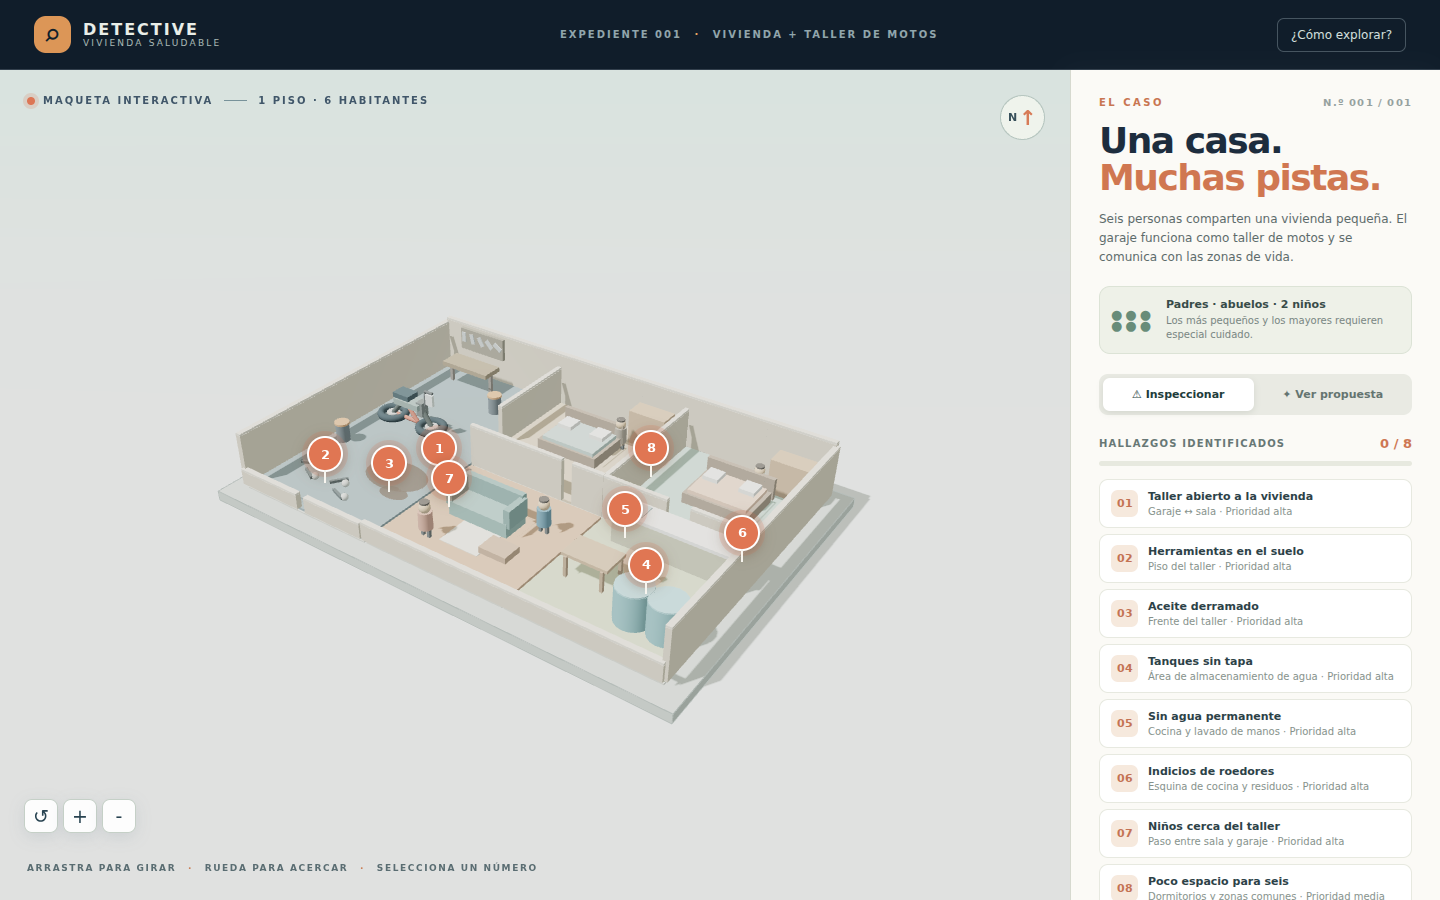
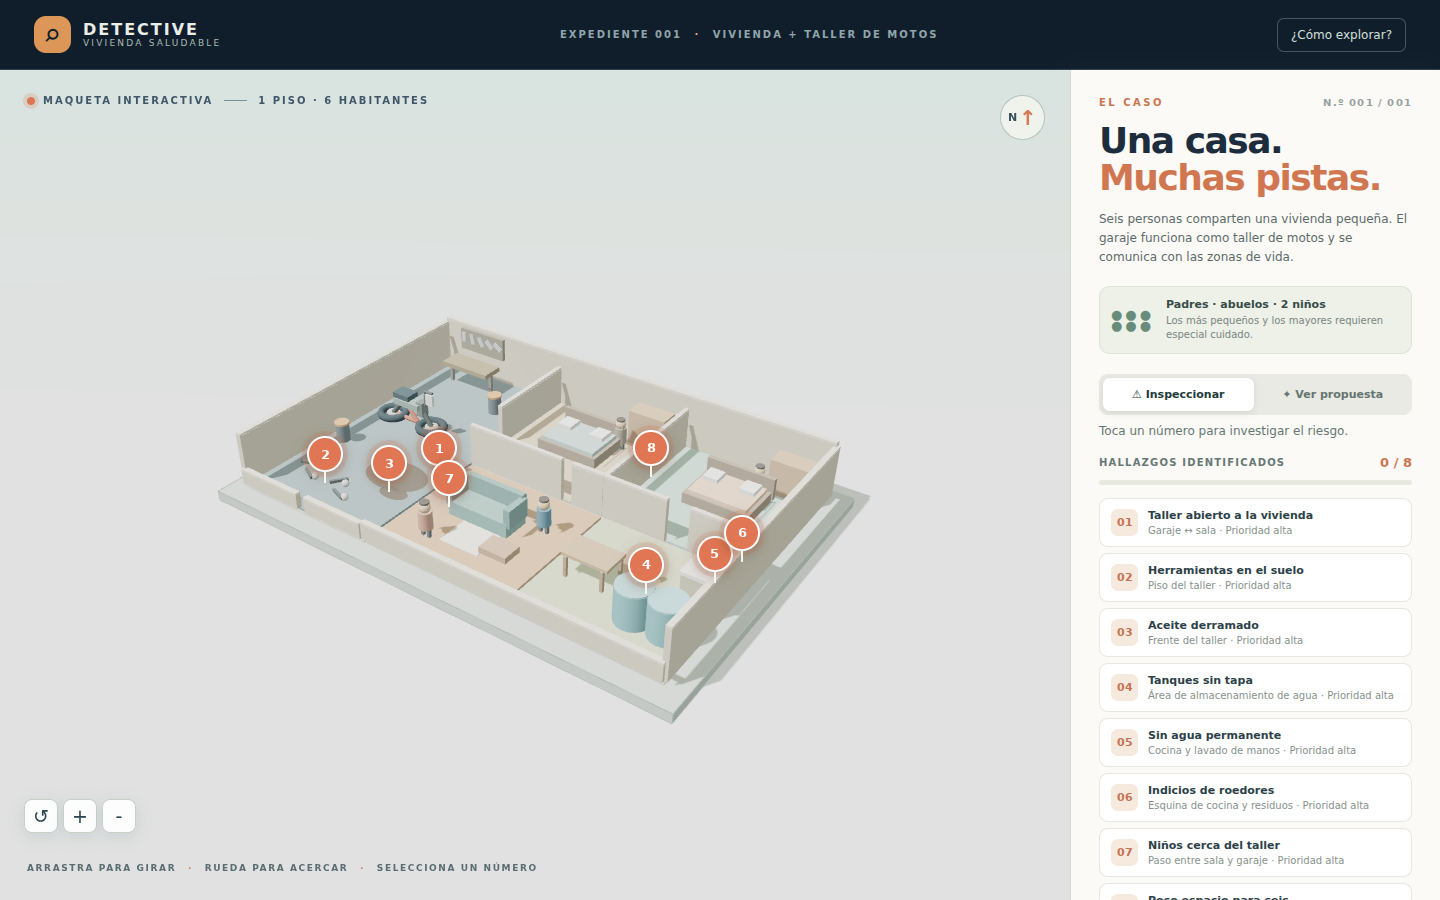
Add files via upload
Ajustes

Changed region(s): [[0.75, 0.4667, 0.9688, 1.0], [0.4062, 0.5289, 0.5312, 0.6844]]

diff --git a/app.js b/app.js
@@ -6,10 +6,20 @@ const R = [
  {n:'Herramientas en el suelo',zone:'Piso del taller',level:'ALTA',pos:[-4.55,.75,2.6],view:[-10,10,13],risk:'Llaves, piezas y herramientas ocupan la circulación. Pueden causar tropiezos, cortes y acceso accidental de los niños a objetos peligrosos.',fix:'Despejar el piso al terminar cada tarea; asignar un panel y un armario con cierre para herramientas y piezas. Delimitar un paso libre y mantener a los niños fuera del taller.',src:'https://www.who.int/publications/i/item/9789241550376'},
  {n:'Aceite derramado',zone:'Frente del taller',level:'ALTA',pos:[-3.20,.55,1.75],view:[-9,10,13],risk:'Hay manchas de aceite bajo la zona de trabajo. El piso resbaladizo facilita caídas y el aceite usado puede contaminar superficies que tocan los habitantes.',fix:'Contener el derrame, absorberlo con material adecuado, limpiar el piso y guardar aceite nuevo y usado en recipientes cerrados y rotulados. Entregar el aceite usado a un gestor autorizado; no verterlo al suelo o al desagüe.',src:'https://www.epa.gov/recycle/managing-reusing-and-recycling-used-oil'},
  {n:'Tanques sin tapa',zone:'Área de almacenamiento de agua',level:'ALTA',pos:[4.55,1.30,2.4],view:[12,11,11],risk:'El agua expuesta puede contaminarse y favorecer criaderos de mosquitos. Para un niño pequeño, un tanque abierto también es un riesgo de ahogamiento.',fix:'Colocar tapas firmes que impidan el acceso infantil; usar malla fina si hay aberturas de ventilación. Lavar los recipientes y proteger por separado el agua destinada a beber en envases limpios y cerrados.',src:'https://www.cdc.gov/mosquitoes/es/mosquito-control/el-control-de-mosquitos-en-la-casa.html'},
- {n:'Sin agua permanente',zone:'Cocina y lavado de manos',level:'ALTA',pos:[3.00,1.10,.7],view:[11,10,7],risk:'La vivienda no está conectada al acueducto. La disponibilidad irregular de agua dificulta el lavado de manos, la limpieza y la preparación segura de alimentos.',fix:'Gestionar una conexión segura al servicio de agua con la entidad competente. Mientras se resuelve, planificar abastecimiento suficiente y usar agua segura para beber y cocinar, almacenada en recipientes limpios y cubiertos.',src:'https://www.who.int/publications/i/item/9789240015241'},
+ {n:'Sin agua permanente',zone:'Cocina y lavado de manos',level:'ALTA',pos:[5.45,1.16,1.07],view:[11,10,7],risk:'La vivienda no está conectada al acueducto. La disponibilidad irregular de agua dificulta el lavado de manos, la limpieza y la preparación segura de alimentos.',fix:'Gestionar una conexión segura al servicio de agua con la entidad competente. Mientras se resuelve, planificar abastecimiento suficiente y usar agua segura para beber y cocinar, almacenada en recipientes limpios y cubiertos.',src:'https://www.who.int/publications/i/item/9789240015241'},
  {n:'Indicios de roedores',zone:'Esquina de cocina y residuos',level:'ALTA',pos:[5.3,.65,-.6],view:[12,10,-5],risk:'Se observan roedores junto al área doméstica. Pueden contaminar comida y superficies con orina o excrementos; los residuos accesibles favorecen su presencia.',fix:'Cerrar alimentos y residuos en recipientes resistentes con tapa, retirar restos a diario, localizar y sellar entradas y solicitar control de plagas seguro para un hogar con niños. Evitar barrer en seco excrementos de roedor.',src:'https://www.cdc.gov/healthy-pets/rodent-control/index.html'},
  {n:'Niños cerca del taller',zone:'Paso entre sala y garaje',level:'ALTA',pos:[-.95,1.15,2.1],view:[7,10,14],risk:'Los niños de primera infancia pueden llegar al área con motos, aceites, piezas y herramientas a través del paso abierto.',fix:'Crear una barrera física con puerta que se mantenga cerrada, guardar sustancias y herramientas bajo llave y definir una zona de juego lejos de la actividad del taller.',src:'https://www.cdc.gov/act-early/milestones/15-months.html'},
  {n:'Poco espacio para seis',zone:'Dormitorios y zonas comunes',level:'MEDIA',pos:[2,.92,-2.15],view:[5,15,-14],risk:'Seis personas usan una vivienda pequeña, incluidas dos personas mayores y dos niños. El almacenamiento y los recorridos estrechos aumentan la dificultad para mantener orden y circulación.',fix:'Despejar rutas de paso, ordenar los objetos en altura con anclaje seguro y reservar áreas de descanso y juego libres de materiales del taller. Revisar ventilación e iluminación reales durante la visita.',src:'https://www.who.int/publications/i/item/9789241550376'}
+];
+const P = [
+ {title:'Separar el taller de la vivienda',visual:'Aparece un cerramiento con puerta entre el garaje y la sala. El taller debe ventilar hacia el exterior y las motos deben encenderse fuera.'},
+ {title:'Guardar las herramientas',visual:'Las herramientas desaparecen del piso y se muestra un armario de almacenamiento en el taller. El paso queda despejado.'},
+ {title:'Limpiar y contener el aceite',visual:'Desaparecen las manchas del suelo y aparece una zona para guardar recipientes cerrados y rotulados.'},
+ {title:'Tapar los tanques de agua',visual:'Los dos tanques reciben tapas firmes. Así se reduce el acceso de insectos, suciedad y niños pequeños.'},
+ {title:'Asegurar el acceso al agua',visual:'El fregadero y el punto de agua propuesto quedan contra la pared lateral de la cocina, dejando libre la entrada a la segunda habitación. La conexión permanente sigue siendo una gestión pendiente.'},
+ {title:'Cerrar residuos y controlar roedores',visual:'Los roedores ya no aparecen y el contenedor de residuos recibe una tapa. También hay que cerrar sus puntos de entrada.'},
+ {title:'Cerrar el paso a los niños',visual:'La puerta del cerramiento impide que los niños entren libremente al taller. Las sustancias y herramientas también deben permanecer bajo llave.'},
+ {title:'Ordenar dormitorios y pasillos',visual:'Se añaden repisas elevadas para liberar el suelo de los dormitorios. Se conserva espacio para circular y debe verificarse la ventilación real.'}
 ];
 const $=id=>document.getElementById(id);
 const found=new Set(); let active=-1, solved=false, touring=false;
@@ -46,8 +56,8 @@ function buildModel(){house=new THREE.Group();hazards=new THREE.Group();upgrades
  // Living room and both small sleeping zones.
  box(1.7,.38,.75,-.15,.31,1.73,0x668d85);box(1.7,.52,.16,-.15,.69,1.38,0x5a7f78);box(.18,.5,.7,-1,.64,1.74,0x5a7f78);box(.18,.5,.7,.7,.64,1.74,0x5a7f78);box(.75,.16,.55,1.03,.38,2.8,0xa77e60);box(1.1,.02,1.2,0,.105,2.42,0xe8e1ca);
  bed(-.10,-2.1,0x95b2a7);bed(4.16,-2.1,0xe5aa89);box(1.05,.96,.55,1.2,.55,-3.52,0xb38a66);box(1.05,.96,.55,5.22,.55,-3.5,0xb38a66);
- // Kitchen counter, table and uncovered water tanks.
- box(3.15,.81,.62,4.25,.48,.41,0xa8a785);box(3.18,.09,.68,4.25,.92,.41,0xf0ede3);box(.7,.03,.47,3.05,.98,.39,0xa1bfbd);box(1.2,.08,.77,3.02,.64,2.0,0xad8662);for(const [x,z] of [[2.55,1.62],[3.5,1.62],[2.55,2.39],[3.5,2.39]])box(.08,.58,.08,x,.33,z,0x987557);
+ // Fregadero contra el lateral derecho: libre el hueco de acceso a la segunda habitación (x 3.7 a 4.3, z 0).
+ box(.78,.81,1.44,5.43,.48,1.04,0xa8a785);box(.84,.09,1.49,5.43,.92,1.04,0xf0ede3);box(.53,.03,.53,5.43,.98,1.02,0xa1bfbd);box(1.2,.08,.77,3.02,.64,2.0,0xad8662);for(const [x,z] of [[2.55,1.62],[3.5,1.62],[2.55,2.39],[3.5,2.39]])box(.08,.58,.08,x,.33,z,0x987557);
  for(const x of [4.53,5.34]){const tank=cyl(.44,.89,x,.54,2.78,0x5c999e,house);cyl(.435,.025,x,1.0,2.78,0x77b9c0,hazards);cyl(.44,.045,x,1.06,2.78,0x344e55,upgrades);tank.userData.hotspotId=3;}
  // Rodent silhouettes and open waste.
  for(const [x,z] of [[5.45,-.70],[5.72,-.25]]){sphere(.13,x,.24,z,0x50514c,hazards);sphere(.07,x-.12,.26,z,0x50514c,hazards);line([[x+.1,.22,z],[x+.23,.19,z+.07],[x+.33,.2,z+.18]],0x50514c,hazards,.016);}
@@ -58,8 +68,8 @@ function buildModel(){house=new THREE.Group();hazards=new THREE.Group();upgrades
  box(.13,1.65,3.65,-2,1.04,1.98,0x8db2a1,upgrades,{transparent:true,opacity:.70});box(.13,1.68,.82,-2,1.04,-.38,0x8db2a1,upgrades,{transparent:true,opacity:.70});box(.16,1.65,.16,-2,1.04,3.85,0x638878,upgrades);box(.17,1.65,.08,-2,1.04,1.19,0x638878,upgrades);box(.17,1.65,.08,-2,1.04,2.80,0x638878,upgrades);
  box(1.38,1.13,.43,-4.85,.75,-2.88,0x4b8a79,upgrades);box(.07,1.01,.04,-4.85,.78,-2.63,0xbad5c3,upgrades);box(1.6,.06,.38,-4.75,1.60,-2.87,0x6f927f,upgrades);
  box(.5,.4,.50,-5.03,.31,2.25,0x608f82,upgrades);box(.65,.05,.6,-5.03,.54,2.25,0x4a756c,upgrades);
- cyl(.38,.73,4.25,.52,2.76,0x7da3a5,upgrades);cyl(.39,.03,4.25,.91,2.76,0x345962,upgrades);
- box(.10,.82,.10,3.05,1.30,.45,0x7c9e9d,upgrades);box(.4,.06,.14,3.17,1.72,.45,0x7c9e9d,upgrades);box(.08,.12,.08,3.33,1.68,.45,0x7c9e9d,upgrades);
+ box(.10,.72,.10,5.68,1.34,1.02,0x7c9e9d,upgrades);box(.43,.06,.12,5.48,1.70,1.02,0x7c9e9d,upgrades);box(.08,.12,.08,5.28,1.65,1.02,0x7c9e9d,upgrades);
+ for(const x of [.65,4.95]){box(1.1,.07,.27,x,1.31,-3.55,0x729b83,upgrades);box(.08,.40,.08,x-.47,1.10,-3.55,0x618973,upgrades);box(.08,.40,.08,x+.47,1.10,-3.55,0x618973,upgrades);}
  upgrades.visible=false;
  // Minimal raised base border and ground shadow.
  const border=new THREE.LineSegments(new THREE.EdgesGeometry(new THREE.BoxGeometry(13,.26,9)),new THREE.LineBasicMaterial({color:0x859b91}));border.position.y=-.22;scene.add(border);
@@ -71,11 +81,40 @@ function init(){try{scene=new THREE.Scene();scene.background=new THREE.Color(0xd
 function resize(){if(!renderer)return;const w=root.clientWidth,h=root.clientHeight;if(!w||!h)return;renderer.setSize(w,h);camera.aspect=w/h;camera.updateProjectionMatrix();}
 function animate(){requestAnimationFrame(animate);orbit.update();if(renderer){renderer.render(scene,camera);positionMarkers();}}
 function positionMarkers(){const w=root.clientWidth,h=root.clientHeight;for(let i=0;i<R.length;i++){const p=new THREE.Vector3(...R[i].pos).project(camera);const el=markers[i];const visible=p.z<1&&p.z>-1&&p.x>-1.03&&p.x<1.03&&p.y>-1.03&&p.y<1.03;el.style.display=visible?'grid':'none';if(visible){el.style.left=((p.x+1)*w/2)+'px';el.style.top=((-p.y+1)*h/2)+'px';}}}
-function renderList(){const list=$('list');list.innerHTML='';R.forEach((r,i)=>{const b=document.createElement('button');b.className='risk-item'+(found.has(i)?' found':'')+(i===active?' active':'');b.innerHTML=`<span class="risk-index">${found.has(i)?'✓':String(i+1).padStart(2,'0')}</span><span><span class="risk-name">${r.n}</span><span class="risk-sub">${r.zone} · Prioridad ${r.level.toLowerCase()}</span></span>`;b.addEventListener('click',()=>select(i));list.appendChild(b)});$('progressText').textContent=`${found.size} / ${R.length}`;$('progressFill').style.width=(found.size/R.length*100)+'%';markers.forEach((m,i)=>{m.classList.toggle('found',found.has(i));m.classList.toggle('selected',i===active);m.classList.toggle('solved',solved)});}
+function renderList(){
+ const list=$('list');list.innerHTML='';
+ R.forEach((r,i)=>{
+  const b=document.createElement('button');b.className='risk-item'+(found.has(i)&&!solved?' found':'')+(i===active?' active':'');
+  const number=solved?String(i+1).padStart(2,'0'):(found.has(i)?'✓':String(i+1).padStart(2,'0'));
+  b.innerHTML=`<span class="risk-index">${number}</span><span><span class="risk-name">${solved?P[i].title:r.n}</span><span class="risk-sub">${r.zone} · ${solved?'Mejora propuesta':'Prioridad '+r.level.toLowerCase()}</span></span>`;
+  b.addEventListener('click',()=>select(i));list.appendChild(b);
+ });
+ $('progressText').textContent=`${found.size} / ${R.length}`;$('progressFill').style.width=(found.size/R.length*100)+'%';
+ markers.forEach((m,i)=>{m.classList.toggle('found',found.has(i)&&!solved);m.classList.toggle('selected',i===active);m.classList.toggle('solved',solved);m.title=solved?P[i].title:R[i].n;m.setAttribute('aria-label',`${solved?'Propuesta':'Pista'} ${i+1}: ${m.title}`)});
+}
 function moveTo(i){const v=new THREE.Vector3(...R[i].view);const target=new THREE.Vector3(R[i].pos[0]*.50,.3,R[i].pos[2]*.50);camera.position.lerp(v,.65);orbit.target.lerp(target,.7);orbit.update();}
-function select(i){active=i;const r=R[i];$('detailLabel').textContent=`PISTA ${String(i+1).padStart(2,'0')} / ${String(R.length).padStart(2,'0')} · PRIORIDAD ${r.level}`;$('detailTitle').textContent=r.n;$('detailWhere').textContent='UBICACIÓN: '+r.zone;$('detailRisk').textContent=r.risk;$('detailFix').textContent=r.fix;$('sourceLink').href=r.src;$('markBtn').textContent=found.has(i)?'✓ Identificada':'Marcar como identificada';detail.hidden=false;renderList();moveTo(i);}
-function setMode(yes){solved=yes;hazards.visible=!yes;upgrades.visible=yes;$('riskMode').classList.toggle('active',!yes);$('solutionMode').classList.toggle('active',yes);$('riskMode').setAttribute('aria-pressed',String(!yes));$('solutionMode').setAttribute('aria-pressed',String(yes));renderList();}
-function boot(){if(!window.THREE||!THREE.OrbitControls){$('loadError').hidden=false;return;}R.forEach((_,i)=>{const b=document.createElement('button');b.type='button';b.className='hotspot';b.textContent=String(i+1);b.title=R[i].n;b.setAttribute('aria-label',`Pista ${i+1}: ${R[i].n}`);b.addEventListener('click',()=>select(i));labels.appendChild(b);markers.push(b)});renderList();init();$('beginBtn').addEventListener('click',()=>{$('welcome').hidden=true;});$('helpBtn').addEventListener('click',()=>{$('welcome').hidden=false});$('analysisBtn').addEventListener('click',()=>{$('analysis').hidden=false});$('analysisClose').addEventListener('click',()=>{$('analysis').hidden=true});$('analysis').addEventListener('click',e=>{if(e.target===$('analysis'))$('analysis').hidden=true});$('detailClose').addEventListener('click',()=>{detail.hidden=true;active=-1;renderList()});$('markBtn').addEventListener('click',()=>{if(active<0)return;found.add(active);renderList();$('markBtn').textContent='✓ Identificada'});$('nextBtn').addEventListener('click',()=>select((active+1)%R.length));$('tourBtn').addEventListener('click',()=>{touring=true;setMode(false);select(0);$('welcome').hidden=true});$('resetProgress').addEventListener('click',()=>{found.clear();active=-1;detail.hidden=true;renderList()});$('riskMode').addEventListener('click',()=>setMode(false));$('solutionMode').addEventListener('click',()=>setMode(true));$('resetView').addEventListener('click',()=>{camera.position.copy(homePos);orbit.target.set(0,.2,0);orbit.update()});$('zoomIn').addEventListener('click',()=>{camera.position.sub(orbit.target).multiplyScalar(.82).add(orbit.target);orbit.update()});$('zoomOut').addEventListener('click',()=>{camera.position.sub(orbit.target).multiplyScalar(1.22).add(orbit.target);orbit.update()});document.addEventListener('keydown',e=>{if(e.key==='Escape'){detail.hidden=true;$('analysis').hidden=true;if(!$('welcome').hidden)$('welcome').hidden=true;}if(e.key==='ArrowRight'&&!detail.hidden)select((active+1)%R.length)});}
+function select(i){
+ active=i;const r=R[i];const p=P[i];
+ $('detailLabel').textContent=solved?`PROPUESTA ${String(i+1).padStart(2,'0')} / ${String(R.length).padStart(2,'0')}`:`PISTA ${String(i+1).padStart(2,'0')} / ${String(R.length).padStart(2,'0')} · PRIORIDAD ${r.level}`;
+ $('detailTitle').textContent=solved?p.title:r.n;
+ $('detailWhere').textContent='UBICACIÓN: '+r.zone;
+ $('detailRiskLabel').textContent=solved?'CAMBIO EN LA MAQUETA':'¿QUÉ OBSERVAMOS?';
+ $('detailRisk').textContent=solved?p.visual:r.risk;
+ $('detailFixLabel').textContent=solved?'SOLUCIÓN RECOMENDADA':'ACCIÓN CONCRETA · ¿POR QUÉ?';
+ $('detailFix').textContent=r.fix;
+ $('sourceLink').href=r.src;
+ $('markBtn').textContent=solved?'Ver riesgo original':(found.has(i)?'✓ Identificada':'Marcar como identificada');
+ $('nextBtn').textContent=solved?'Siguiente mejora →':'Siguiente pista →';
+ detail.hidden=false;renderList();moveTo(i);
+}
+function setMode(yes){
+ solved=yes;hazards.visible=!solved;upgrades.visible=solved;
+ $('riskMode').classList.toggle('active',!solved);$('solutionMode').classList.toggle('active',solved);
+ $('riskMode').setAttribute('aria-pressed',String(!solved));$('solutionMode').setAttribute('aria-pressed',String(solved));
+ $('modeHint').textContent=solved?'Toca un número para ver qué mejora y cómo aplicarla.':'Toca un número para investigar el riesgo.';
+ if(active>=0)select(active);else renderList();
+}
+function boot(){if(!window.THREE||!THREE.OrbitControls){$('loadError').hidden=false;return;}R.forEach((_,i)=>{const b=document.createElement('button');b.type='button';b.className='hotspot';b.textContent=String(i+1);b.title=R[i].n;b.setAttribute('aria-label',`Pista ${i+1}: ${R[i].n}`);b.addEventListener('click',()=>select(i));labels.appendChild(b);markers.push(b)});renderList();init();$('beginBtn').addEventListener('click',()=>{$('welcome').hidden=true;});$('helpBtn').addEventListener('click',()=>{$('welcome').hidden=false});$('analysisBtn').addEventListener('click',()=>{$('analysis').hidden=false});$('analysisClose').addEventListener('click',()=>{$('analysis').hidden=true});$('analysis').addEventListener('click',e=>{if(e.target===$('analysis'))$('analysis').hidden=true});$('detailClose').addEventListener('click',()=>{detail.hidden=true;active=-1;renderList()});$('markBtn').addEventListener('click',()=>{if(active<0)return;if(solved){setMode(false);return}found.add(active);renderList();$('markBtn').textContent='✓ Identificada'});$('nextBtn').addEventListener('click',()=>select((active+1)%R.length));$('tourBtn').addEventListener('click',()=>{touring=true;setMode(false);select(0);$('welcome').hidden=true});$('resetProgress').addEventListener('click',()=>{found.clear();active=-1;detail.hidden=true;renderList()});$('riskMode').addEventListener('click',()=>setMode(false));$('solutionMode').addEventListener('click',()=>setMode(true));$('resetView').addEventListener('click',()=>{camera.position.copy(homePos);orbit.target.set(0,.2,0);orbit.update()});$('zoomIn').addEventListener('click',()=>{camera.position.sub(orbit.target).multiplyScalar(.82).add(orbit.target);orbit.update()});$('zoomOut').addEventListener('click',()=>{camera.position.sub(orbit.target).multiplyScalar(1.22).add(orbit.target);orbit.update()});document.addEventListener('keydown',e=>{if(e.key==='Escape'){detail.hidden=true;$('analysis').hidden=true;if(!$('welcome').hidden)$('welcome').hidden=true;}if(e.key==='ArrowRight'&&!detail.hidden)select((active+1)%R.length)});}
 const loginForm=$('loginForm');
 loginForm.addEventListener('submit',event=>{
  event.preventDefault();

diff --git a/styles.css b/styles.css
@@ -4,3 +4,4 @@
 .analysis-trigger{width:100%;margin-top:10px;padding:11px 13px;background:#edf2e9;border:1px solid #d0dfd0;border-radius:9px;color:#38635b;text-align:left;font-size:11px;font-weight:800}.analysis-trigger span{float:right}.analysis-trigger:hover{background:#deebdf}.analysis-overlay{position:fixed;inset:0;z-index:30;background:#102631ba;display:grid;place-items:center;padding:20px}.analysis-overlay[hidden]{display:none}.analysis-card{position:relative;background:#fffdf6;width:min(740px,100%);max-height:90vh;overflow:auto;padding:32px;border-radius:18px;box-shadow:0 25px 80px #07171c7d}.analysis-card h2{font:700 27px/1.2 Outfit,system-ui,sans-serif;margin:10px 0;color:#233a45}.analysis-card>p{font-size:12px;color:#5c6e6c;line-height:1.65}.analysis-grid{display:grid;grid-template-columns:1fr 1fr;gap:12px;margin:20px 0}.analysis-grid section{border:1px solid #e4e8dd;background:#f7f8f1;border-radius:11px;padding:13px}.analysis-grid h3{font-size:12px;color:#345f59;margin:0 0 8px}.analysis-grid p{font-size:11px;line-height:1.55;color:#526562;margin:0}.analysis-card .analysis-foot{font-size:10px;color:#7a8883;border-top:1px solid #e5e7dc;padding-top:13px}@media(max-width:560px){.analysis-card{padding:22px}.analysis-grid{grid-template-columns:1fr}}
 #appShell{display:contents}#appShell[hidden],.login-page[hidden],.welcome[hidden]{display:none}
 .login-page{min-height:100vh;display:grid;place-items:center;padding:24px;background:radial-gradient(circle at 18% 15%,#486875 0%,transparent 28%),radial-gradient(circle at 81% 78%,#385d61 0%,transparent 35%),#132936;color:#243c44}.login-card{width:min(470px,100%);background:#fffdf6;border-radius:22px;padding:46px 43px 42px;box-shadow:0 25px 80px #07171c6d}.login-stars{color:#dc975e;font-size:28px;letter-spacing:8px;margin-bottom:20px}.login-stars span{color:#6aa99c}.login-card h1{font:700 clamp(32px,5vw,44px)/1.1 Outfit,system-ui,sans-serif;letter-spacing:-1.4px;margin:12px 0 14px}.login-card h1 em{font-style:normal;color:#d07751}.login-card>p{font-size:16px;line-height:1.55;color:#586d6c;margin:0 0 25px}.login-card form{display:grid;gap:11px}.login-card label{font-size:14px;font-weight:800;color:#294851}.login-card input{width:100%;height:48px;padding:0 14px;background:#fff;border:1px solid #acbbb5;border-radius:9px;color:#243c44;font:16px 'DM Sans',system-ui,sans-serif}.login-card input:focus{outline:3px solid #ddb0806c;border-color:#ad754d}.login-card input[aria-invalid="true"]{border-color:#bc503d}.login-card .primary{margin-top:6px;padding:15px;font-size:14px}.login-card .login-error{margin:0;color:#aa4739;font-size:13px;line-height:1.4}.login-card .login-error[hidden]{display:none}@media(max-width:480px){.login-card{padding:34px 25px}.login-page{padding:16px}}
+.mode-hint{font-size:12px;line-height:1.4;color:#647673;margin:-13px 0 15px}.risk-item.active .risk-name{color:#255e58}

diff --git a/index.html b/index.html
@@ -49,6 +49,7 @@
       <p class="intro">Seis personas comparten una vivienda pequeña. El garaje funciona como taller de motos y se comunica con las zonas de vida.</p>
       <div class="family"><span class="family-symbol" aria-hidden="true">●●●<br>●●●</span><div><strong>Padres · abuelos · 2 niños</strong><small>Los más pequeños y los mayores requieren especial cuidado.</small></div></div>
       <div class="mode-tabs" role="group" aria-label="Modo de visualización"><button id="riskMode" class="active">⚠ Inspeccionar</button><button id="solutionMode">✦ Ver propuesta</button></div>
+      <p id="modeHint" class="mode-hint">Toca un número para investigar el riesgo.</p>
       <div class="progress-row"><span>HALLAZGOS IDENTIFICADOS</span><strong id="progressText">0 / 8</strong></div>
       <div class="progress-track"><div id="progressFill"></div></div>
       <div id="list" class="risk-list" aria-label="Lista de hallazgos"></div>
@@ -60,8 +61,8 @@
     <button id="detailClose" class="detail-close" aria-label="Cerrar hallazgo">×</button>
     <div class="detail-label" id="detailLabel"></div>
     <h2 id="detailTitle"></h2><p id="detailWhere" class="detail-where"></p>
-    <div class="detail-block"><span>¿QUÉ OBSERVAMOS?</span><p id="detailRisk"></p></div>
-    <div class="detail-block solution-block"><span>ACCIÓN CONCRETA · ¿POR QUÉ?</span><p id="detailFix"></p></div>
+    <div class="detail-block"><span id="detailRiskLabel">¿QUÉ OBSERVAMOS?</span><p id="detailRisk"></p></div>
+    <div class="detail-block solution-block"><span id="detailFixLabel">ACCIÓN CONCRETA · ¿POR QUÉ?</span><p id="detailFix"></p></div>
     <div class="detail-actions"><button id="markBtn" class="primary"></button><button id="nextBtn" class="outline">Siguiente pista →</button></div>
     <a id="sourceLink" class="source" target="_blank" rel="noopener noreferrer">Consultar fuente ↗</a>
   </div>
